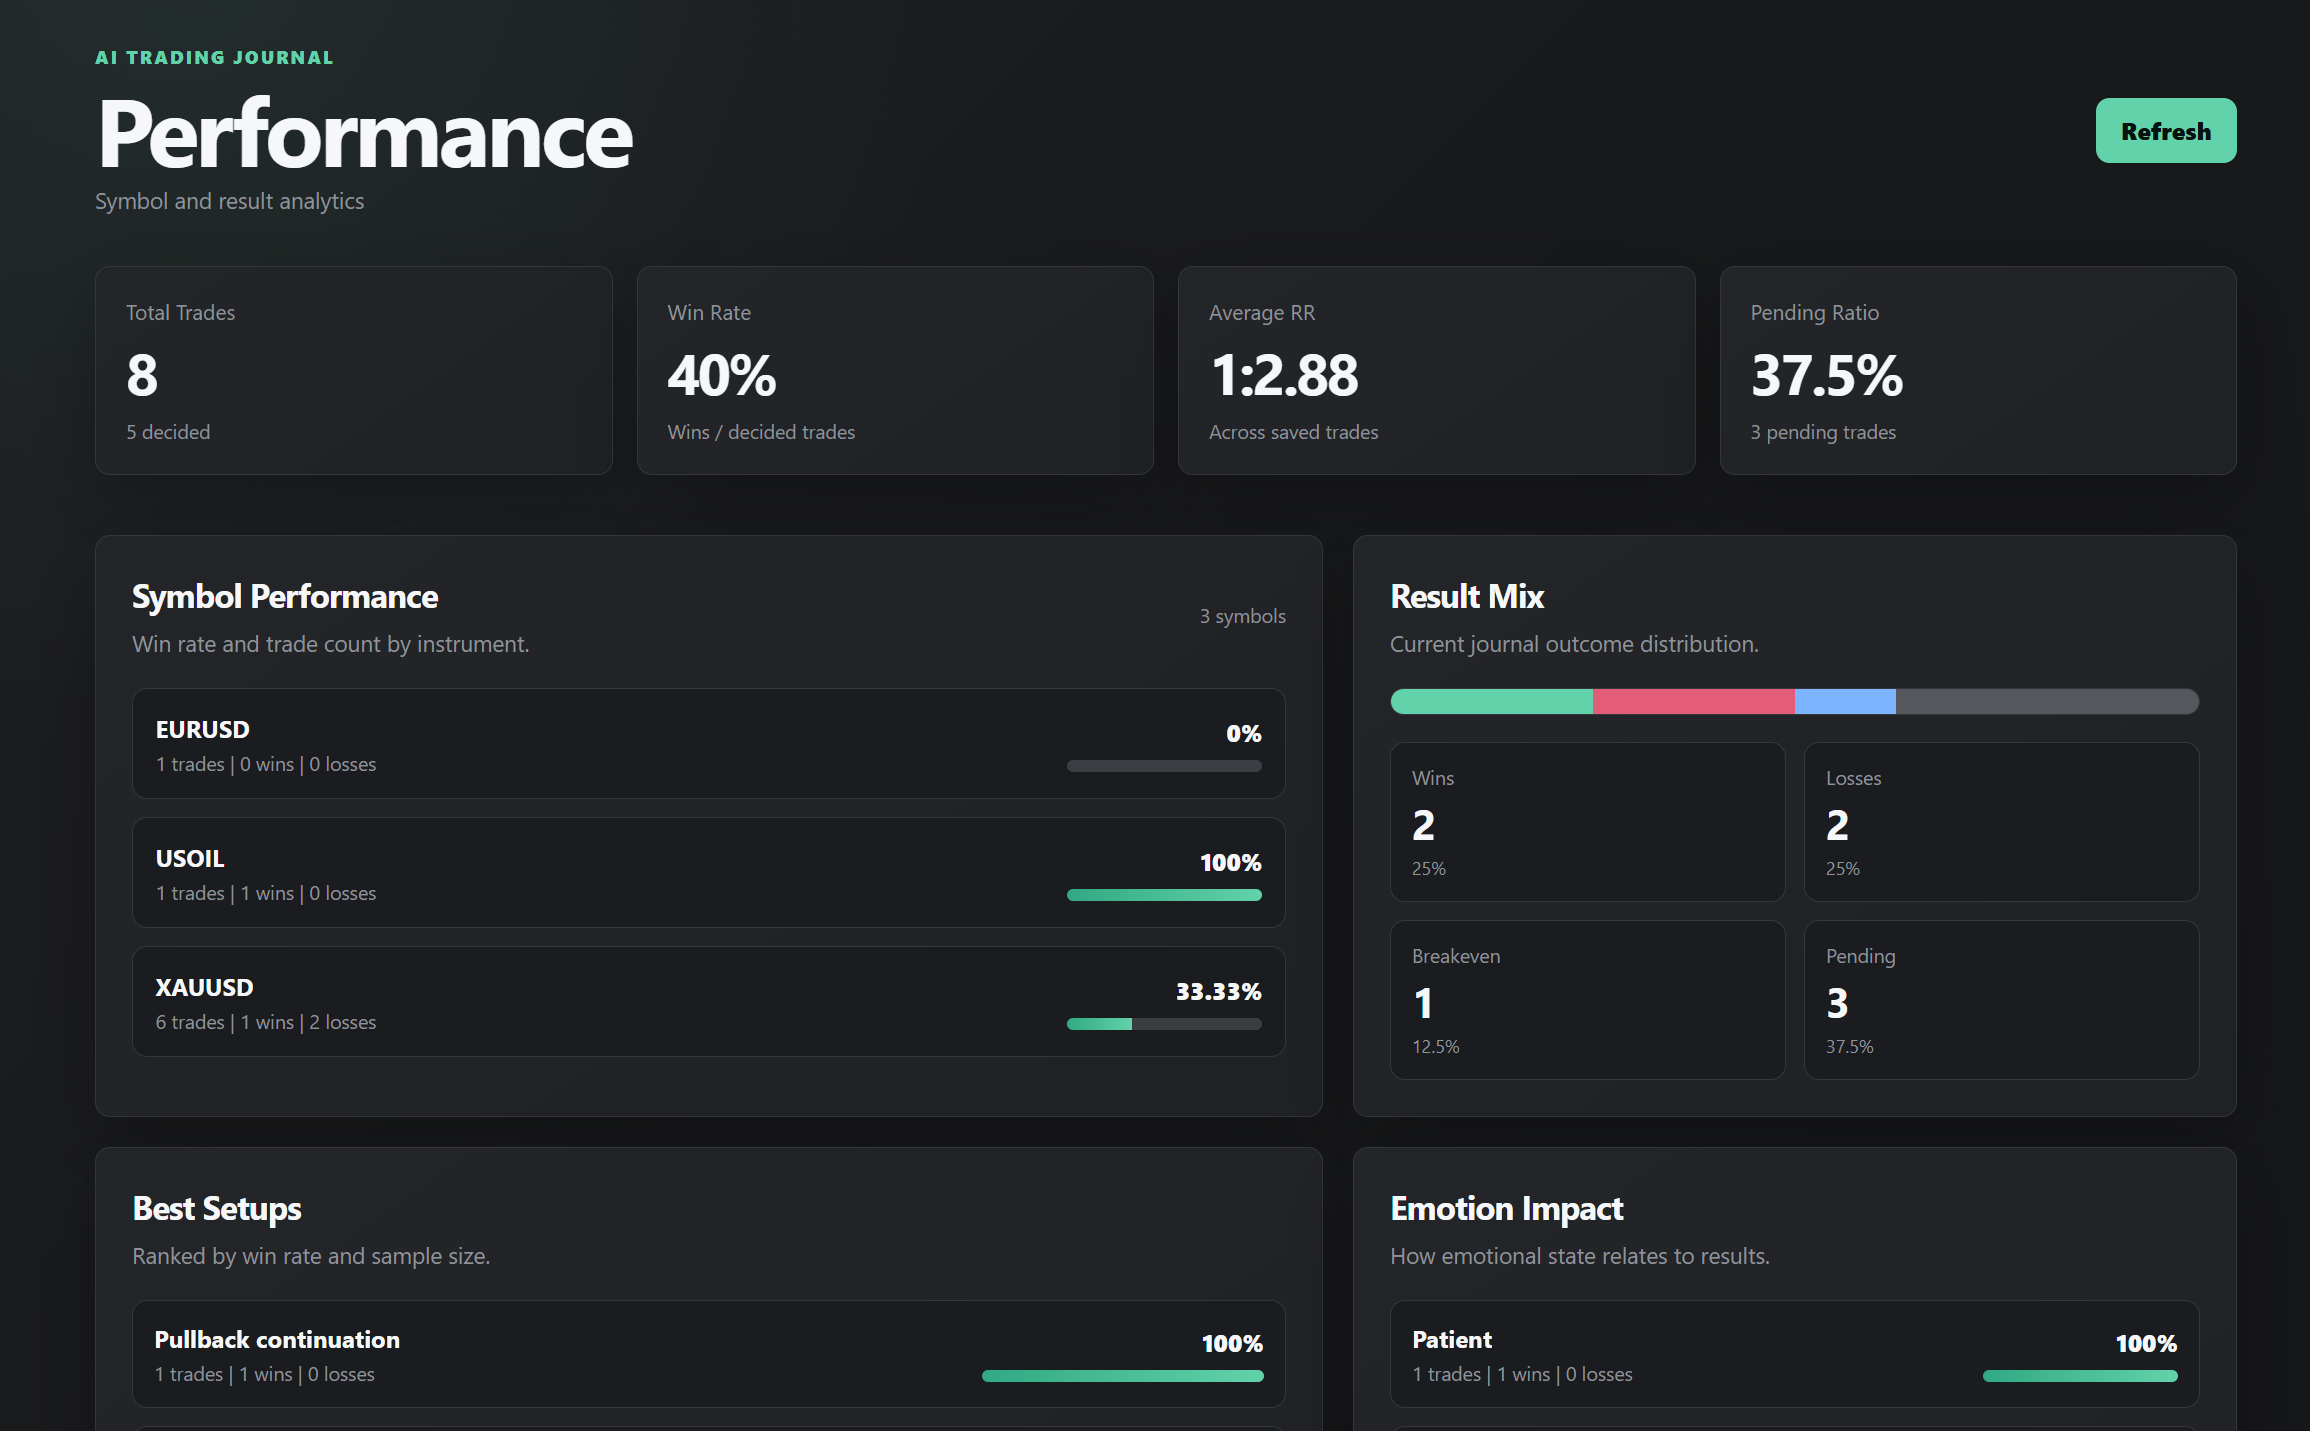
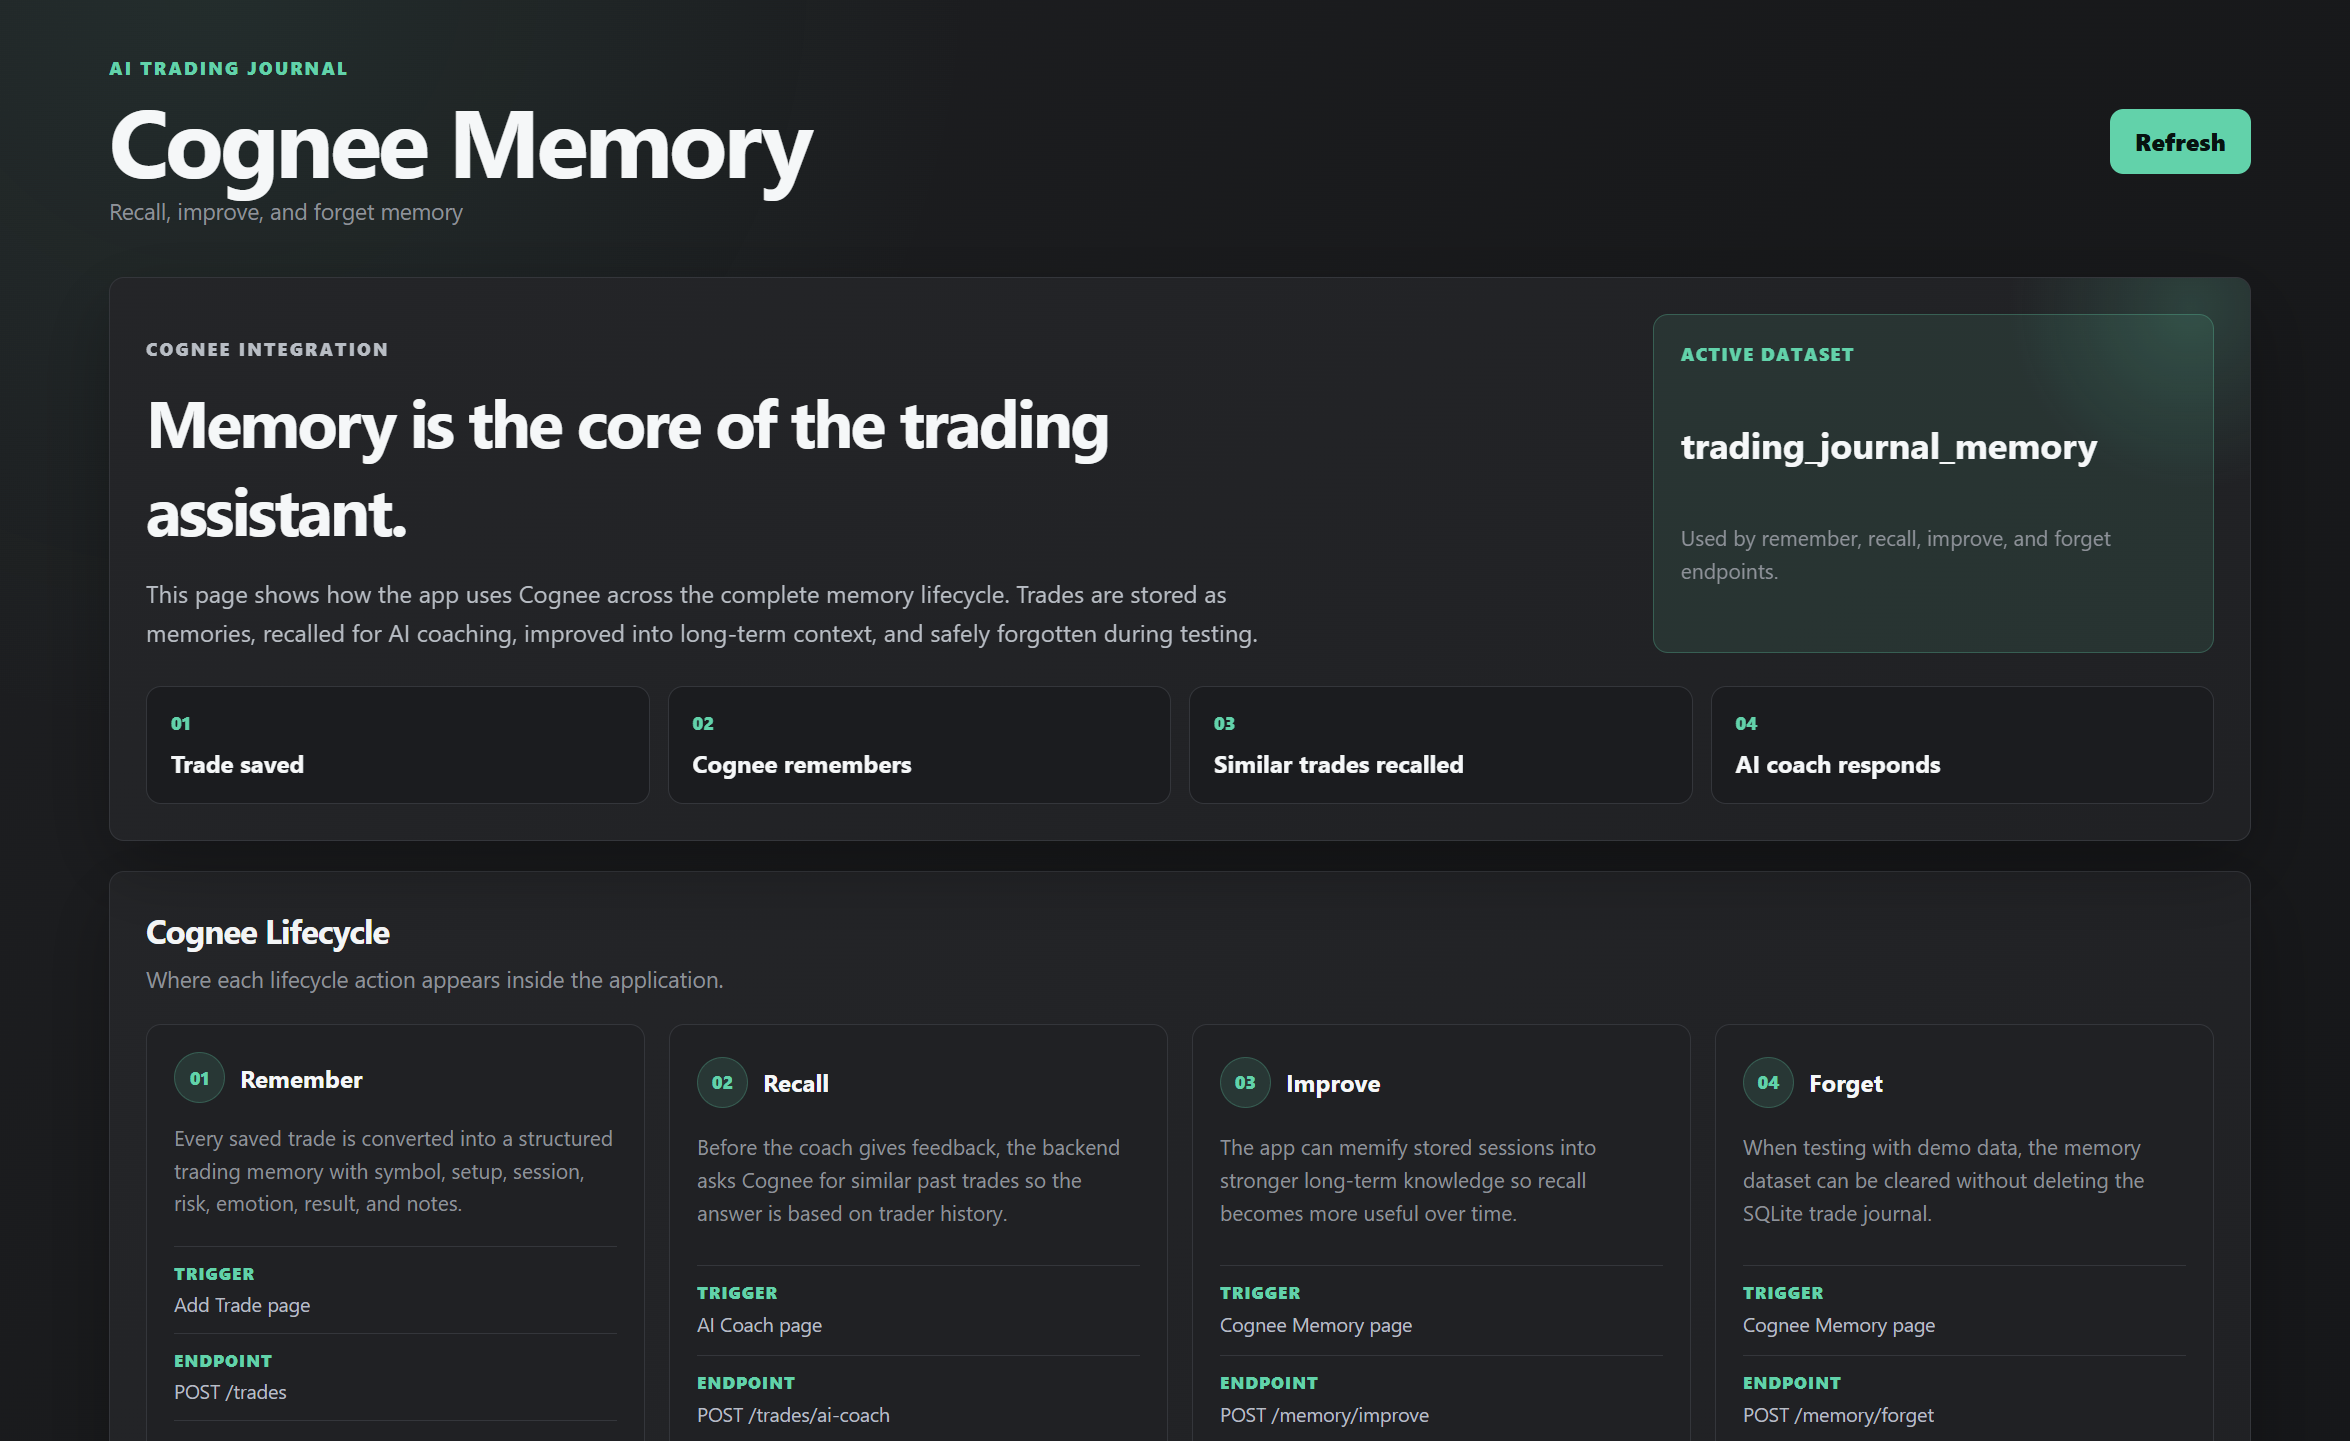
screenshot correction

diff --git a/README.md b/README.md
@@ -12,13 +12,14 @@ AI Trading Journal is a memory-powered trading journal and coaching assistant bu
 
 ## Project Screenshots
 
-| Page          | Screenshot                                                                                 |
-| ------------- | ------------------------------------------------------------------------------------------ |
-| Dashboard     | ![Dashboard](docs/screenshots/Dashboard.png)                                               |
-| Add Trade     | ![Add Trade](docs/screenshots/add-trade.png)                                               |
-| Trade History | ![Trade History](docs/screenshots/trade-history.png)                                       |
-| AI Coach      | ![AI Coach](docs/screenshots/ai-coach.png)                                                 |
-| Cognee Memory | ![Cognee Memory](docs/screenshots/cognee-memory.png) (docs/screenshots/cognee-memory1.png) |
+| Page          | Screenshot                                                                                                 |
+| ------------- | ---------------------------------------------------------------------------------------------------------- |
+| Dashboard     | ![Dashboard](docs/screenshots/Dashboard.png)                                                               |
+| Add Trade     | ![Add Trade](docs/screenshots/add-trade.png)                                                               |
+| Trade History | ![Trade History](docs/screenshots/trade-history.png)                                                       |
+| AI Coach      | ![AI Coach](docs/screenshots/ai-coach.png)                                                                 |
+| Performance   | ![Performance](docs/screenshots/performance.png)                                                           |
+| Cognee Memory | ![Cognee Memory](docs/screenshots/cognee-memory.png) ![Cognee Memory](docs/screenshots/cognee-memory1.png) |
 
 ## About The Project
 
